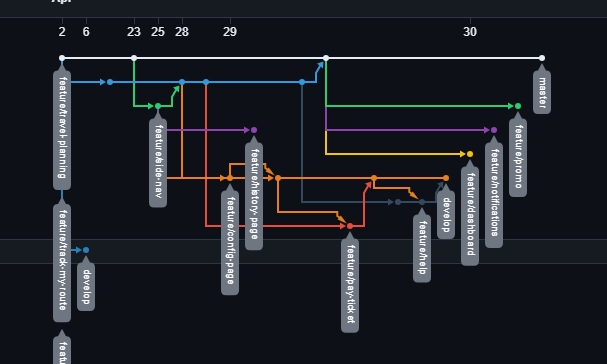
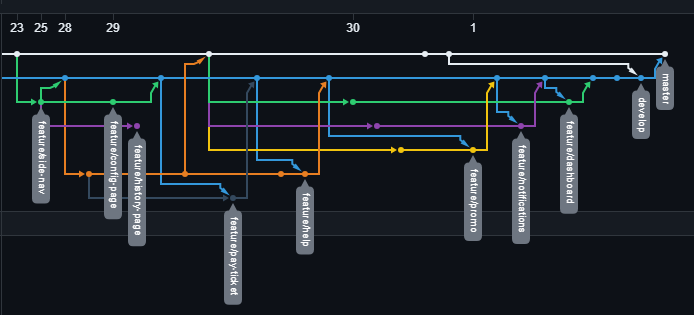
sprint 2 finished

Changed region(s): [[0.0, 0.1429, 1.0, 0.9714], [0.0, 0.0, 1.0, 0.1143], [0.089, 0.9143, 0.1186, 1.0]]

diff --git a/README.md b/README.md
@@ -1494,6 +1494,23 @@ El link de nuestra Landing Page es el siguiente: https://innovatech-open-source.
 
 #### 5.2.2.2. Sprint Backlog 2
 
+|Sprint#|Sprint 2| | | | | | |
+|:----|:----|:----|:----|:----|:----|:----|:----|
+|User Story| |Task| | | | | |
+|id|title|id|title|description|Estimations(Hours)|Assigned To|Status(To-do /InProcess/ToReview/Done)|
+|HU10|Visualización del mapa|T008|Desarrollo de vista del  mapa|Desarrollo e implementación de la vista del mapa con los campos de  ingreso de origen y destino|5 hrs|Oscar Sebastian|In Process|
+|HU15|Compra de boletos|T009|Desarrollo de vista pay-ticket|Desarrollo e implementación de la vista de la sección para pagar pasaje de algun bus seleccionado|3 hrs|Carlos Arian|Done|
+|HU08|Visualización del menú de opciones|T010|Desarrollo de menu de opciones|Desarrollo e implementación del side nav con opciones para el usuario|2 hrs|Carlos Arian|Done|
+|HU01|Registrar al usuario|T011|Desarrollo de pantalla de registro|Desarrollo e implementación del la vista de registro de usuario|2 hrs|Carlos Casimiro|In Process|
+|HU02|Inicio de sesión en la aplicación|T012|Desarrollo de pantalla de inicio de sesion|Desarrollo e implementación de la vista de inicio de sesión|2 hrs|Carlos Casimiro|Done|
+|HU16|Notificaciones personalizadas|TO13|Desarrollo de pagina de notificaciones|Desarrollo e implementación de la vista de notificaciones|3 hrs|Oscar Sebastian|Done|
+|HU30|Promociones |T014|Desarrollo de pagina de promociones|Desarrollo e implementación de la vista de promociones que se le ofreceran al usuario premiun|4 hrs|Javier Sharvel|Done|
+|HU31|Soporte y Ayuda|T015|Desarrollo de pagina de ayuda|Desarrollo e implementación de la vista de soporte y ayuda|1 hrs|Carlos Arian|Done|
+|HU32|Configuración|T016|Desarrollo de pagina de configuración|Desarrollo e implementación de la pagina de configuración|2 hrs|Eduardo Mancilla|Done|
+|HU33|Historial de Viajes|T017|Desarrollo de pagina de historial de viajes|Desarrollo e implementación de la pagina de historial de viajes|3 hrs|Eduardo Mancilla|Done|
+|HU34|Recuperación de contraseña|T018|Desarrollo de pagina de recuperación de contraseña|Desarrollo e implementacion de la pagina de recuperación de contraseña|3 hrs|Javier Sharvel|Done|
+
+
 En el segundo Sprint, se implementará el aplicativo web de TrackMyRoute. La herramienta para gestionar a los miebros del equipo y visualizar los avanzes del proyecto será Trello.
 
 <img src="images/trello2.PNG" alt="Trello" width="100%">
@@ -1549,56 +1566,80 @@ https://trello.com/invite/b/756h2IOV/ATTIc8bab2f3b40f3200913856fe774913650C1EF44
   </tr>
   <tr>
     <td>track-my-route</td>
-    <td></td>
-    <td></td>
-    <td></td>
-    <td></td>
+    <td>feature/promo</td>
+    <td>e919387281c92c0261c01bc13f3ab1581d621947</td>
+    <td>feat: seccion de promociones</td>
+    <td>30/04/2024</td>
   </tr>
   <tr>
     <td>track-my-route</td>
-    <td></td>
-    <td></td>
-    <td></td>
-    <td></td>
+    <td>feature/notifications</td>
+    <td>d473368537e6501d72884c94f228f41d134ccb59</td>
+    <td>feat: added notifications page</td>
+    <td>30/04/2024</td>
   </tr>
   <tr>
     <td>track-my-route</td>
-    <td></td>
-    <td></td>
-    <td></td>
-    <td></td>
+    <td>feature/dashboard</td>
+    <td>f01822bf6427b663d29e8671f8f2a4c16334ed06</td>
+    <td>feat: added search route page</td>
+    <td>29/04/2024</td>
   </tr>
-  <tr>
-    <td>track-my-route</td>
-    <td></td>
-    <td></td>
-    <td></td>
-    <td></td>
-  </tr>
-  <tr>
-    <td>track-my-route</td>
-    <td></td>
-    <td></td>
-    <td></td>s
-    <td></td>
-  </tr>
-
-
   </table>
 
 
 #### 5.2.2.4. Testing Suite Evidence for Sprint Review
 
-<p align="justify">En el transcurso del segundo sprint, no se realizaron pruebas en la aplicación ya que nuestro enfoque estuvo dirigido exclusivamente a la construcción de la página de inicio.</p>
+<p align="justify">En el transcurso del segundo sprint, no se realizaron pruebas en la aplicación ya que nuestro enfoque estuvo dirigido exclusivamente a la construcción de la interfaz de la aplicación web.</p>
 
 #### 5.2.2.5. Execution Evidence for Sprint Review
 
+<div align="center">
 
+  <img src="images/app_deploy.png">
+
+</div>
 
 #### 5.2.2.6. Services Documentation Evidence for Sprint Review
 
+En este sprint en particular, no hemos utilizado servicios web, ya que nos hemos concentrado exclusivamente en la creación del frontend de la aplicación web. Por lo tanto, en esta presentación no se proporciona documentación relacionada con la utilización de servicios web.
+
 
 #### 5.2.2.7. Software Deployment Evidence for Sprint Review
+
+**Paso 1:** desplegarlo localmente usando lite server
+
+<div align="center">
+
+  <img src="images/deploy_1.jpg">
+
+</div>
+
+**Paso 2:** instalar Firebase tools en nuestro proyecto, y loguearse en firebase
+
+<div align="center">
+
+  <img src="images/deploy_2.jpeg">
+
+</div>
+
+**Paso 3** realizar el deploy a traves de firebase
+
+<div align="center">
+
+  <img src="images/deploy_3.jpg">
+
+</div>
+
+**Paso 4:** ng deploy
+
+<div align="center">
+
+  <img src="images/deploy_4.jpg">
+
+</div>
+
+Link de la app desplegada: https://track-my-route-12342468.web.app/sidebar/history
 
 
 #### 5.2.2.8. Team Collaboration Insights during Sprint
@@ -1606,6 +1647,7 @@ https://trello.com/invite/b/756h2IOV/ATTIc8bab2f3b40f3200913856fe774913650C1EF44
 <img src="images/commitSprint2.0.PNG" alt="Spring2.0Evidence" width="100%">
 <img src="images/sprint-2-insight2.png" alt="Spring2.0Evidence" width="100%">
 <img src="images/sprint-2-insight3.png" alt="Spring2.0Evidence" width="100%">
+<img src="images/sprint-2-insight4.png" alt="Spring2.0Evidence" width="100%">
 
 ## Conclusiones
 
@@ -1642,6 +1684,9 @@ Trello Sprint 1: https://trello.com/invite/b/ESztreG7/ATTI1648e8bd36893d9f82781c
 Trello Sprint 2: https://trello.com/invite/b/756h2IOV/ATTIc8bab2f3b40f3200913856fe774913650C1EF44E/sprint-2-trackmyroute
 
 Landing Page: https://innovatech-open-source.github.io/TrackMyRoute_Landing/
+
+App Web: https://track-my-route-12342468.web.app/sidebar/history
+
 
 Entrevista 1: https://upcedupe-my.sharepoint.com/:v:/g/personal/u202018894_upc_edu_pe/EYU8NwblMmBBvE4TaX4v4zEBwo00tBBZ3yhPmLo6KmRXyA?e=pnhTL1
 
